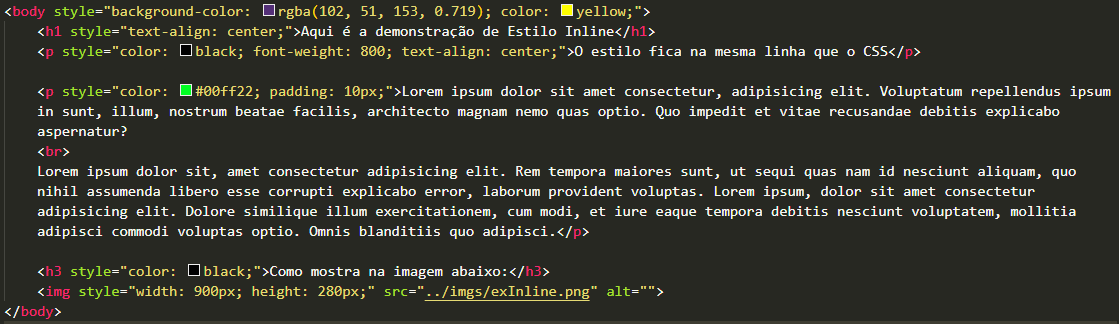
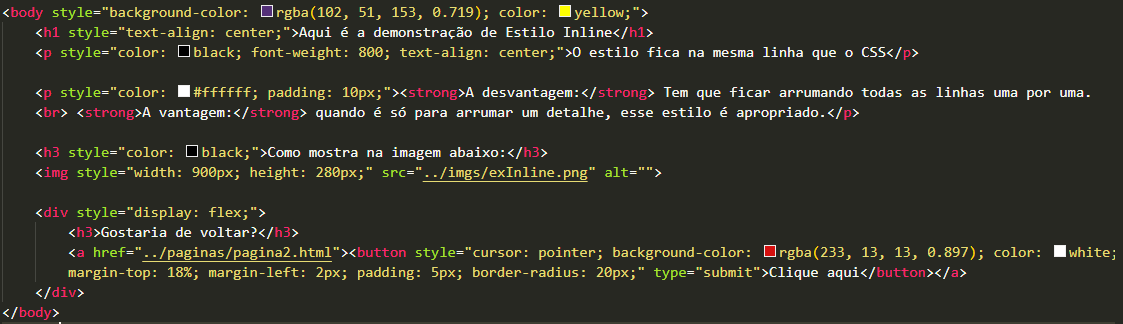
att

diff --git a/LinguagensEPadroesWeb/Tema1e2/paginas/inline.html b/LinguagensEPadroesWeb/Tema1e2/paginas/inline.html
@@ -3,17 +3,21 @@
 <head>
     <meta charset="UTF-8">
     <meta name="viewport" content="width=device-width, initial-scale=1.0">
-    <title>AS FOLHAS DE ESTILO EM CASCATA</title>
+    <title>Estilo Inline</title>
 </head>
 <body style="background-color: rgba(102, 51, 153, 0.719); color: yellow;">
     <h1 style="text-align: center;">Aqui é a demonstração de Estilo Inline</h1>
     <p style="color: black; font-weight: 800; text-align: center;">O estilo fica na mesma linha que o CSS</p>
     
-    <p style="color: #00ff22; padding: 10px;">Lorem ipsum dolor sit amet consectetur, adipisicing elit. Voluptatum repellendus ipsum in sunt, illum, nostrum beatae facilis, architecto magnam nemo quas optio. Quo impedit et vitae recusandae debitis explicabo aspernatur?
-    <br>
-    Lorem ipsum dolor sit, amet consectetur adipisicing elit. Rem tempora maiores sunt, ut sequi quas nam id nesciunt aliquam, quo nihil assumenda libero esse corrupti explicabo error, laborum provident voluptas. Lorem ipsum, dolor sit amet consectetur adipisicing elit. Dolore similique illum exercitationem, cum modi, et iure eaque tempora debitis nesciunt voluptatem, mollitia adipisci commodi voluptas optio. Omnis blanditiis quo adipisci.</p>
+    <p style="color: #ffffff; padding: 10px;"><strong>A desvantagem:</strong> Tem que ficar arrumando todas as linhas uma por uma.
+    <br> <strong>A vantagem:</strong> quando é só para arrumar um detalhe, esse estilo é apropriado.</p>
 
     <h3 style="color: black;">Como mostra na imagem abaixo:</h3>
     <img style="width: 900px; height: 280px;" src="../imgs/exInline.png" alt="">
+
+    <div style="display: flex;">
+        <h3>Gostaria de voltar?</h3>
+        <a href="../paginas/pagina2.html"><button style="cursor: pointer; background-color: rgba(233, 13, 13, 0.897); color: white;margin-top: 18%; margin-left: 2px; padding: 5px; border-radius: 20px;" type="submit">Clique aqui</button></a>
+    </div>
 </body>
 </html>

diff --git a/LinguagensEPadroesWeb/Tema1e2/paginas/interna.html b/LinguagensEPadroesWeb/Tema1e2/paginas/interna.html
@@ -1,0 +1,69 @@
+<!DOCTYPE html>
+<html lang="pt-br">
+<head>
+    <meta charset="UTF-8">
+    <meta name="viewport" content="width=device-width, initial-scale=1.0">
+    <title>Estilo Locais / Internos</title>
+    <style>
+        body {
+            background-color:rgba(11, 13, 117, 0.767);
+            font-family:'Times New Roman', Times, serif;
+            font-size: 20px;
+        }
+        h1 {
+            color: rgb(96, 19, 168);
+            background-color: rgb(195, 119, 197);
+        }
+        h2, h3 {
+            color: rgb(243, 182, 67);
+            font-size: 1.2em;
+            margin-bottom: 5px;
+        }
+        p {
+            text-align: justify;
+            color: white;
+            margin-top: 1.6%; margin-left: 10px;
+        }
+        img{
+            height: 320px;
+            padding-left: 5px;
+        }
+        div{
+            display: flex;
+        }
+        .VanDes{
+            margin: -20px 20px;
+        }
+        button{
+            cursor: pointer;
+            background-color: rgba(233, 13, 13, 0.897);
+            color: white;
+            margin-top: 20%; margin-left: 10px;
+            padding: 5px;
+            border-radius: 20px;
+        }
+    </style>
+</head>
+<body>
+    <h1>Aqui é a demonstração de Estilo Local/Interna</h1>
+    <div class="VanDes">
+        <h2>Vantagens:</h2>
+        <p>Arrumando um Titulo, arruma todos. </p>
+    </div>
+    <div class="VanDes">
+        <h2>Desvantagens:</h2>
+        <p>Com o tempo, o estilo fica imenso do que o conteúdo.</p>
+    </div>
+
+    <h3>Como mostra as imagens abaixo:</h3>
+    <div>
+        <img src="../imgs/exInterno1.png" alt="">
+        <img src="../imgs/exInterno2.png" alt="">
+    </div>
+
+    <div>
+        <h2>Gostaria de voltar?</h2>
+        <a href="../paginas/pagina2.html"><button type="submit">Clique aqui</button></a>
+    </div>
+</body>
+</html>

diff --git a/LinguagensEPadroesWeb/Tema1e2/paginas/pagina2.html b/LinguagensEPadroesWeb/Tema1e2/paginas/pagina2.html
@@ -54,7 +54,7 @@
     </div>
     <div>
         <h4 style="padding-right: 10px;">2.	Estilo Locais/Internos</h4>
-        <a href="../paginas/interno.html"><button type="submit">Clique aqui</button></a>
+        <a href="../paginas/interna.html"><button type="submit">Clique aqui</button></a>
     </div>
     <div>
         <h4 style="padding-right: 10px;">3. Estilo Externo</h4>
